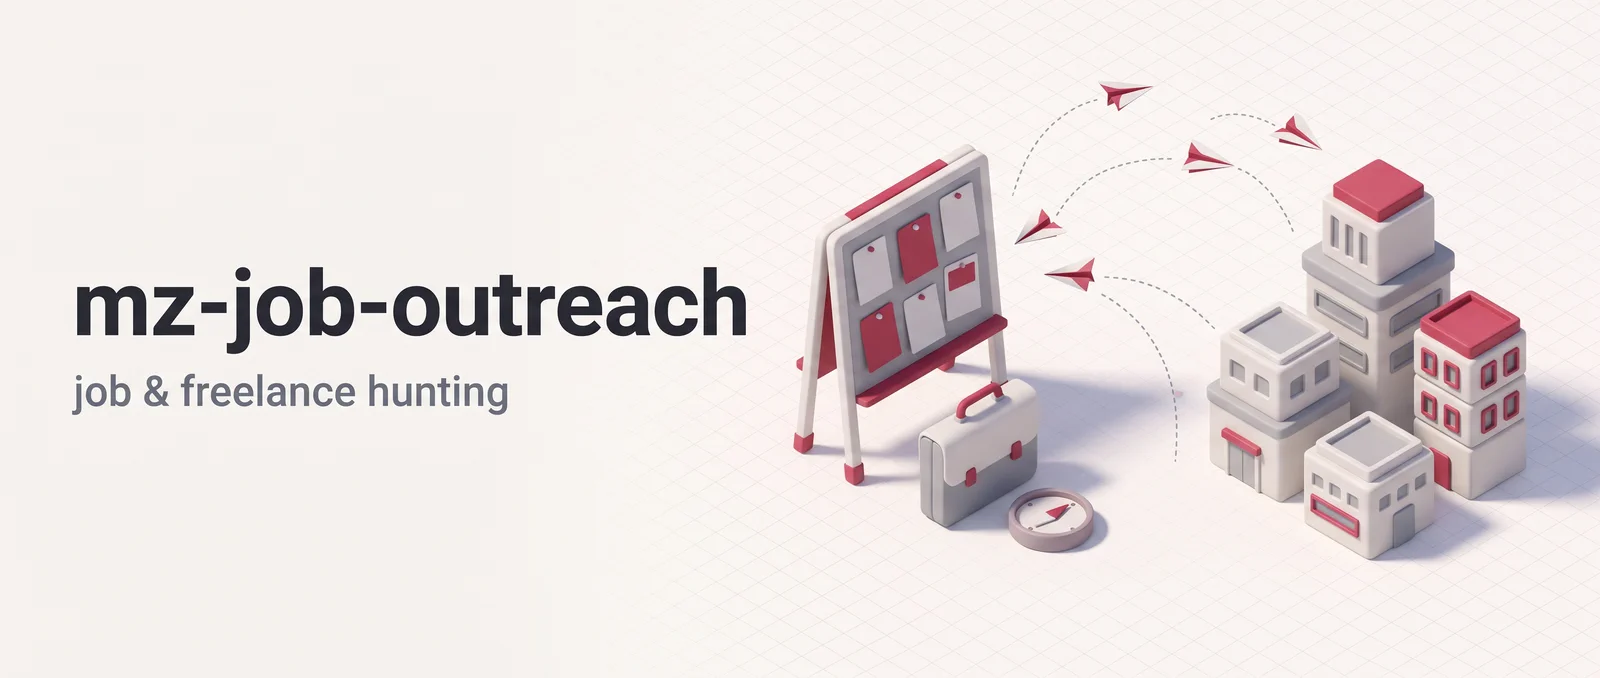
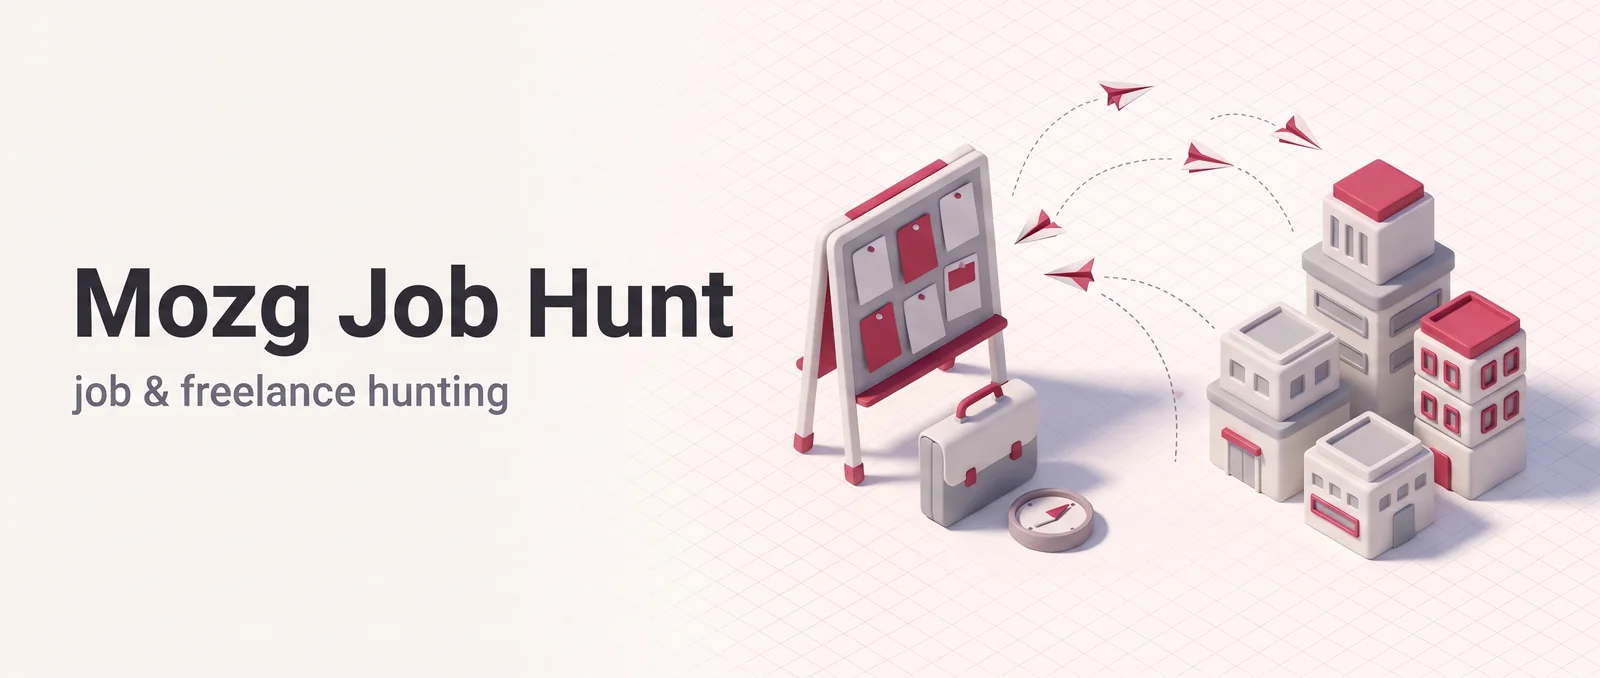
Rename heroes, add handoff listing

Changed region(s): [[0.0312, 0.3717, 0.4688, 0.5265]]

diff --git a/README.md b/README.md
@@ -212,6 +212,7 @@ claude plugin install mz-creative       # Multi-perspective panels + writing
 claude plugin install mz-funny          # Character-voice code roasting
 claude plugin install mz-design         # UI/UX design documents
 claude plugin install mz-memory         # Cross-session project memory
+claude plugin install mz-handoff        # Session handoff after compaction
 claude plugin install mz-knowledge      # Obsidian knowledge base
 claude plugin install mz-gov            # Development governance
 ```
@@ -426,6 +427,25 @@ Background curation and compression run `claude -p` on your account; `MZ_MEMORY_
 Pairs with `mz-dev-pipe` agents that have native `memory: project` for per-agent persistent memory.
 
 **[Full documentation →](plugins/mz-memory/)**
+
+______________________________________________________________________
+
+### [Mozg Session Handoff](plugins/mz-handoff/) (`mz-handoff`)
+
+Each compaction summarizes the previous summary, so a long session drifts. After a few compactions, mz-handoff has Claude write down where the work stands, built from the transcript and git rather than from what the context still remembers. You type `/clear`, and the fresh session picks the file up.
+
+| Hook                | Event                                | What it does                                                                                            |
+| ------------------- | ------------------------------------ | ------------------------------------------------------------------------------------------------------- |
+| **Handoff session** | SessionStart (startup/clear/compact) | Flags each compaction, loads this terminal's handoff after `/clear`, and lists open handoffs on startup |
+| **Handoff stop**    | Stop                                 | After `MZ_HANDOFF_AFTER` compactions (default 3), keeps Claude going once to write a handoff            |
+
+| Skill       | Command                        | What it does                                                                         |
+| ----------- | ------------------------------ | ------------------------------------------------------------------------------------ |
+| **handoff** | `/mz-handoff:handoff [resume]` | Writes `.mz/handoff/<stamp>.md` from transcript and git facts; `resume` picks one up |
+
+Handoffs share the `.mz/` project root with mz-memory, and parallel terminals each get their own.
+
+**[Full documentation →](plugins/mz-handoff/)**
 
 ______________________________________________________________________
 

diff --git a/plugins/mz-funny/README.md b/plugins/mz-funny/README.md
@@ -1,3 +1,5 @@
+<p align="center"><img src="https://raw.githubusercontent.com/DoctorMozg/claude-pipelines/master/assets/hero/mz-funny.webp" alt="Mozg Code Roast: character-voice code roasting" width="100%"></p>
+
 # Mozg Code Roast (`mz-funny`)
 
 mz-funny roasts your code in a character voice (a pirate, a drill sergeant, Yoda and four others) and ties every joke to a real finding. `/do-roast` first reads the target, measures its structure, checks the docs against the code and compares it with current best practice for your stack. Only then does a persona write the roast, and it may embellish tone but not invent a bug. It is for developers who want a funny read of their code, with receipts.

diff --git a/plugins/mz-handoff/README.md b/plugins/mz-handoff/README.md
@@ -1,3 +1,5 @@
+<p align="center"><img src="https://raw.githubusercontent.com/DoctorMozg/claude-pipelines/master/assets/hero/mz-handoff.webp" alt="Mozg Session Handoff: session handoff after compaction" width="100%"></p>
+
 # Mozg Session Handoff (`mz-handoff`)
 
 Session handoff for [Claude Code](https://claude.com/claude-code). Each compaction summarizes the previous summary, so a long session drifts. After a few compactions, mz-handoff has Claude write down where the work stands, built from the transcript and git rather than from what the context still remembers. Then you type `/clear`, and the fresh session picks the file up. One skill ships with it: `/mz-handoff:handoff`.

diff --git a/plugins/mz-rules/README.md b/plugins/mz-rules/README.md
@@ -1,3 +1,5 @@
+<p align="center"><img src="https://raw.githubusercontent.com/DoctorMozg/claude-pipelines/master/assets/hero/mz-rules.webp" alt="Mozg Coding Rules: curated coding rules" width="100%"></p>
+
 # Mozg Coding Rules (`mz-rules`)
 
 Curated coding rules for Claude Code, installed per project or for every session by one skill, `/init-rules`. It detects the project's languages and tooling, shows one plan, and writes no rules or settings until you approve it.
